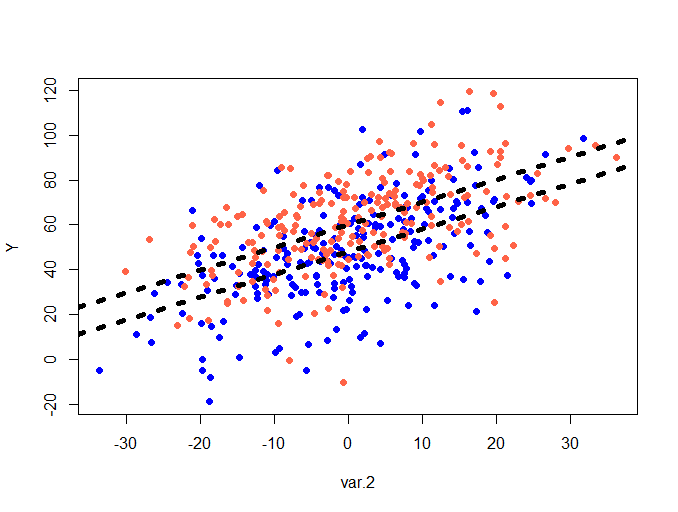
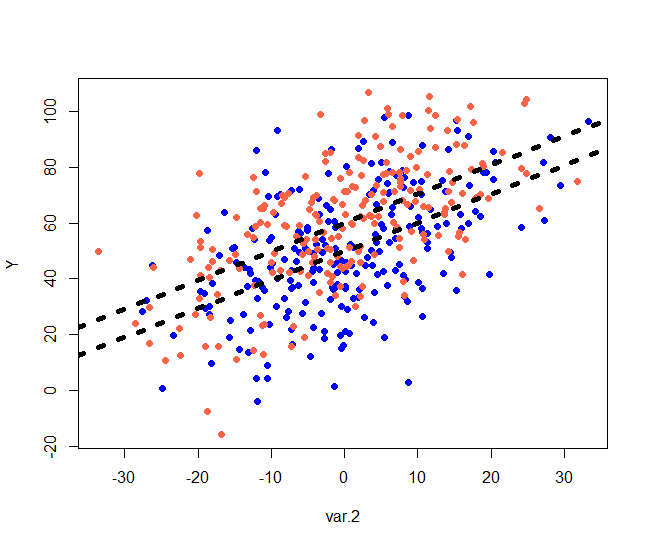
Add files via upload

diff --git a/m_lineaire.html b/m_lineaire.html
@@ -606,13 +606,13 @@ Mes_x_et_intercept = cbind(Mes_x,1)
 # On calcul les coefficients
 Mes_coefficients &lt;- solve(t(Mes_x_et_intercept) %*% Mes_x_et_intercept) %*% t(Mes_x_et_intercept) %*% Mon_Y
 Mes_coefficients</code></pre>
-<pre><code>##              [,1]
-## var.2  2.97468960
-## var.3  1.00132180
-## var.4  0.49037601
-## var.5  0.19883979
-## var.6  0.02235341
-##       46.13449110</code></pre>
+<pre><code>##               [,1]
+## var.2  3.015072195
+## var.3  1.077250474
+## var.4  0.473605540
+## var.5  0.167852229
+## var.6 -0.006491427
+##       49.863751474</code></pre>
 <p><details> <summary>Clique ICI pour le détail du calcul</summary></p>
 <p>On détail le cacul à partir d’un jeu de données plus petit pour simplifier le calcul numérique.</p>
 <p>Ce calcul comporte plusieurs étapes qui font intervenir des calculs entre matrices.<br />
@@ -720,12 +720,12 @@ Y &lt;- ifelse(var.3 == &quot;A&quot;, Inter1 + Coef1*var.2 + rnorm(450/2, 0, 18
 Resu &lt;- lm(Y ~ var.2)
 Resu$coefficients</code></pre>
 <pre><code>## (Intercept)       var.2 
-##  52.1186728   0.8833089</code></pre>
+##   54.939486    1.027175</code></pre>
 <pre class="r"><code># Représentation graphique
 plot(var.2, Y)
 abline(Resu$coefficients[[1]], Resu$coefficients[[2]], lwd= 5, lty = &quot;dotted&quot;)</code></pre>
 <div class="figure">
-<img src="Rplot09.png" />
+<img src="Rplot11.png" />
 
 </div>
 <pre class="r"><code># Si on ajuste
@@ -737,7 +737,7 @@ abline(Resu$coefficients[[1]], Resu$coefficients[[2]], lwd= 5, lty = &quot;dotte
 Resu &lt;- lm(Y ~ var.2+var.3)
 Resu$coefficients</code></pre>
 <pre><code>## (Intercept)       var.2      var.3B 
-##  47.2091108   0.9002261   9.8033773</code></pre>
+##   49.854391    1.029107   10.170611</code></pre>
 <pre class="r"><code># Représentation graphique
 plot(var.2, Y, col=c(&quot;blue&quot;, &quot;tomato&quot;)[as.numeric(as.factor(var.3))], pch = 16)
 abline(Resu$coefficients[[1]], Resu$coefficients[[2]], lwd= 5, lty = &quot;dotted&quot;)
@@ -764,7 +764,7 @@ Y &lt;- ifelse(var.3 == &quot;A&quot;, Inter1 + Coef1*var.2 + rnorm(450/2, 0, 18
 Resu &lt;- lm(Y ~ var.2)
 Resu$coefficients</code></pre>
 <pre><code>## (Intercept)       var.2 
-##  48.7549324   0.1758185</code></pre>
+## 47.84733399 -0.06332559</code></pre>
 <pre class="r"><code># Représentation graphique
 plot(var.2, Y)
 abline(Resu$coefficients[[1]], Resu$coefficients[[2]], lwd= 5, lty = &quot;dotted&quot;)</code></pre>
@@ -779,7 +779,7 @@ abline(Resu$coefficients[[1]], Resu$coefficients[[2]], lwd= 5, lty = &quot;dotte
 Resu &lt;- lm(Y ~ var.2*var.3)
 Resu$coefficients</code></pre>
 <pre><code>##  (Intercept)        var.2       var.3B var.2:var.3B 
-##   48.7012083    1.2574785   -0.9621127   -2.0892918</code></pre>
+##   47.5638333    1.0014915    0.4783754   -1.9961580</code></pre>
 <pre class="r"><code># Représentation graphique
 plot(var.2, Y, col=c(&quot;blue&quot;, &quot;tomato&quot;)[as.numeric(as.factor(var.3))], pch = 16)
 abline(Resu$coefficients[[1]], Resu$coefficients[[2]], lwd= 5, lty = &quot;dotted&quot;)
@@ -817,8 +817,8 @@ anova(M.Lineaire.1, M.Lineaire.2)</code></pre>
 ## Model 1: Y ~ var.2 + var.3 + var.4 + var.5 + var.6
 ## Model 2: Y ~ var.2 + var.3 + var.4
 ##   Res.Df    RSS Df Sum of Sq      F    Pr(&gt;F)    
-## 1    444 113015                                  
-## 2    446 151064 -2    -38050 74.743 &lt; 2.2e-16 ***
+## 1    444 134792                                  
+## 2    446 162527 -2    -27735 45.679 &lt; 2.2e-16 ***
 ## ---
 ## Signif. codes:  0 &#39;***&#39; 0.001 &#39;**&#39; 0.01 &#39;*&#39; 0.05 &#39;.&#39; 0.1 &#39; &#39; 1</code></pre>
 <h5>
